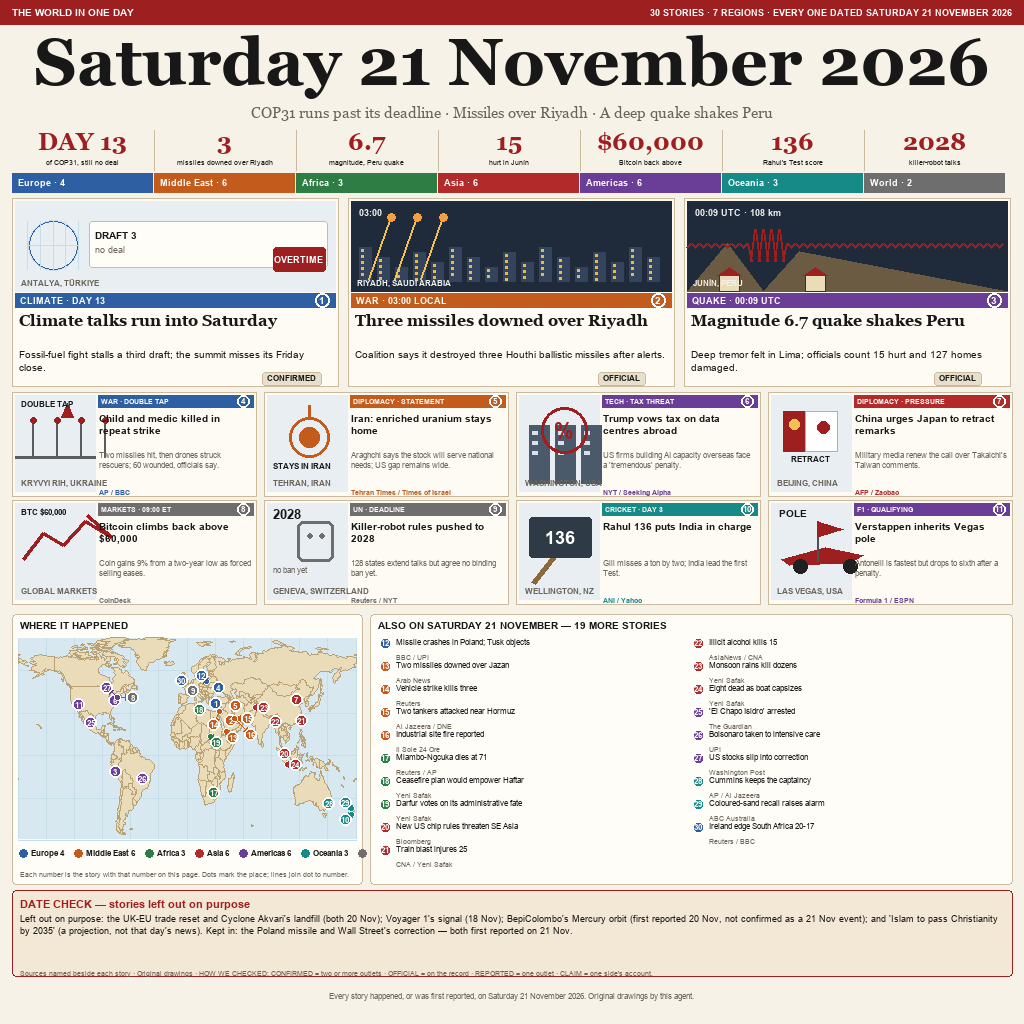
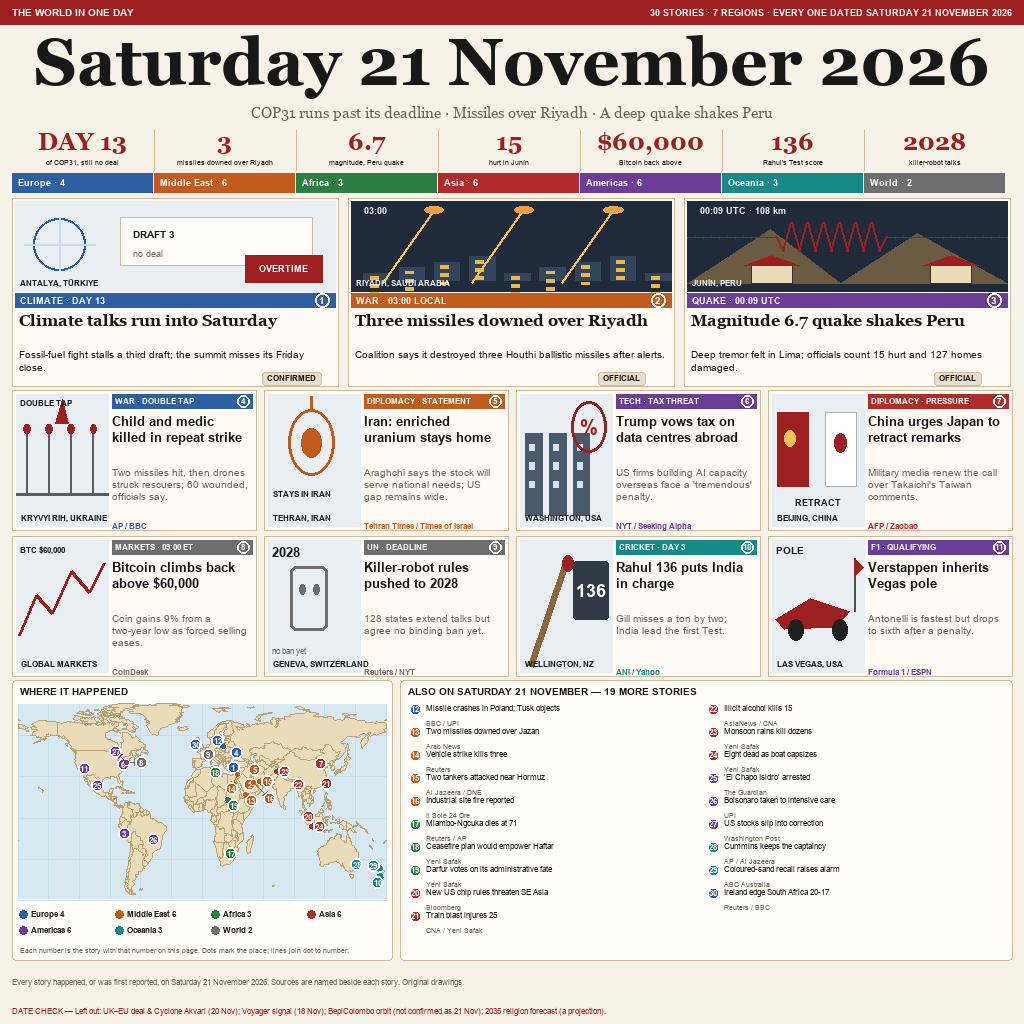
Enlarge eight small cards; compress DATE CHECK to one bottom line

diff --git a/render.py b/render.py
@@ -74,124 +74,136 @@ def chip(d, x, y, text, fill="#E7DFCC", fsize=8):
 
 
 # ---------------------------------------------------------------------------
-# vignettes. Each one carries a place tag and a time tag inside the drawing.
+# vignettes. Normalised coordinates so each one fills whatever box it gets.
+# Every vignette carries a place tag and a time tag inside the drawing.
 # ---------------------------------------------------------------------------
 def scene(d, box, s):
     x0, y0, x1, y1 = box
+    bw, bh = x1 - x0, y1 - y0
     col = rgb(REGION_COLORS[s["region"]])
-    d.rectangle(box, fill="#E8EEF1" if s["scene"] not in ("missiles", "quake") else "#1F2A3A")
-    light = s["scene"] in ("missiles", "quake")
-    ink = "#F2F2EE" if light else INK
+    dark = s["scene"] in ("missiles", "quake")
+    d.rectangle(box, fill="#1F2A3A" if dark else "#E8EEF1")
+    ink = "#F2F2EE" if dark else INK
 
-    if s["scene"] == "cop":
-        cx, cy = x0 + 38, y0 + 44
-        d.ellipse([cx - 25, cy - 25, cx + 25, cy + 25], outline=col, width=2)
-        for k in range(-18, 19, 9):
-            d.arc([cx - 25, cy - 25, cx + 25, cy + 25], 0, 360, fill=rgb(GRAT))
-            d.line([cx + k * 1.4, cy - 24, cx + k * 1.4, cy + 24], fill=rgb(GRAT), width=1)
-        d.line([cx - 24, cy, cx + 24, cy], fill=rgb(GRAT), width=1)
-        d.rounded_rectangle([x0 + 74, y0 + 20, x1 - 8, y0 + 66], radius=3,
-                            fill="#FFFDF7", outline=rgb(LINE))
-        put(d, (x0 + 80, y0 + 28), "DRAFT 3", font(10, True), INK)
-        put(d, (x0 + 80, y0 + 43), "no deal", font(9), MUTED)
-        d.rounded_rectangle([x1 - 62, y0 + 46, x1 - 10, y0 + 70], radius=3, fill=rgb(RED))
-        put(d, (x1 - 36, y0 + 58), "OVERTIME", font(9, True), "#FFFFFF", anchor="mm")
+    def P(fx, fy):
+        return (x0 + fx * bw, y0 + fy * bh)
 
-    elif s["scene"] == "missiles":
-        for bx in range(x0 + 8, x1 - 8, 18):
-            h = 14 + (bx % 5) * 5
-            d.rectangle([bx, y1 - 10 - h, bx + 12, y1 - 10], fill="#33445C")
-            for wy in range(y1 - 8 - h, y1 - 12, 6):
-                d.rectangle([bx + 2, wy, bx + 4, wy + 2], fill="#E8B84B")
+    def line(a, b, fill, width=2):
+        d.line([P(*a), P(*b)], fill=fill, width=width)
+
+    def boxc(a, b, fill=None, outline=None, width=1):
+        d.rectangle([P(*a), P(*b)], fill=fill, outline=outline, width=width)
+
+    def ell(a, b, fill=None, outline=None, width=1):
+        d.ellipse([P(*a), P(*b)], fill=fill, outline=outline, width=width)
+
+    def poly(points, fill):
+        d.polygon([P(*p) for p in points], fill=fill)
+
+    k = s["scene"]
+    if k == "cop":
+        cx, cy = P(0.14, 0.48)
+        r = 0.29 * bh
+        d.ellipse([cx - r, cy - r, cx + r, cy + r], outline=col, width=2)
+        line((0.14, 0.19), (0.14, 0.77), rgb(GRAT))
+        line((0.03, 0.48), (0.25, 0.48), rgb(GRAT))
+        boxc((0.33, 0.18), (0.93, 0.72), fill="#FFFDF7", outline=rgb(LINE))
+        put(d, P(0.37, 0.30), "DRAFT 3", font(10, True), INK)
+        put(d, P(0.37, 0.52), "no deal", font(9), MUTED)
+        boxc((0.72, 0.60), (0.96, 0.90), fill=rgb(RED))
+        put(d, P(0.84, 0.75), "OVERTIME", font(9, True), "#FFFFFF", anchor="mm")
+
+    elif k == "missiles":
+        for i in range(9):
+            fx = 0.04 + i * 0.11
+            h = 0.20 + (i % 4) * 0.06
+            boxc((fx, 1 - h), (fx + 0.08, 0.88), fill="#33445C")
+            for wy in (1 - h + 0.04, 1 - h + 0.13, 1 - h + 0.22):
+                boxc((fx + 0.02, wy), (fx + 0.045, wy + 0.03), fill="#E8B84B")
         for i in range(3):
-            sx = x0 + 18 + i * 26
-            d.line([sx, y1 - 12, sx + 22, y0 + 16], fill="#F2C14E", width=2)
-            d.ellipse([sx + 18, y0 + 12, sx + 26, y0 + 20], fill="#F2A03D")
-        put(d, (x0 + 8, y0 + 6), "03:00", font(9, True), "#F2F2EE")
+            fx = 0.10 + i * 0.28
+            line((fx, 0.90), (fx + 0.16, 0.10), "#F2C14E", 2)
+            ell((fx + 0.13, 0.06), (fx + 0.19, 0.14), fill="#F2A03D")
+        put(d, P(0.04, 0.04), "03:00", font(9, True), "#F2F2EE")
 
-    elif s["scene"] == "quake":
-        d.polygon([(x0, y1), (x0 + 40, y0 + 42), (x0 + 76, y1),
-                   (x0 + 112, y0 + 50), (x1, y1)], fill="#6B5B42")
+    elif k == "quake":
+        poly([(0, 0.92), (0.26, 0.32), (0.48, 0.92), (0.72, 0.36), (1, 0.92)], fill="#6B5B42")
         pts = []
-        for i in range(0, int(x1 - x0), 4):
-            amp = 16 if 60 < i < 100 else 2
-            yy = y0 + 44 + (amp if (i // 4) % 2 == 0 else -amp)
-            pts.append((x0 + i, yy))
+        for i in range(41):
+            fx = i / 40
+            amp = 0.16 if 0.28 < fx < 0.62 else 0.01
+            fy = 0.40 + (amp if i % 2 == 0 else -amp)
+            pts.append(P(fx, fy))
         d.line(pts, fill=rgb(RED), width=2)
-        for hx in (x0 + 32, x0 + 118):
-            d.rectangle([hx, y1 - 16, hx + 20, y1], fill="#EADCB9", outline="#3A3026")
-            d.polygon([(hx - 2, y1 - 16), (hx + 10, y1 - 24), (hx + 22, y1 - 16)], fill=rgb(RED))
-        put(d, (x0 + 8, y0 + 6), "00:09 UTC · 108 km", font(9, True), "#F2F2EE")
+        for hx in (0.20, 0.76):
+            boxc((hx, 0.72), (hx + 0.13, 0.92), fill="#EADCB9", outline="#3A3026")
+            poly([(hx - 0.02, 0.72), (hx + 0.065, 0.60), (hx + 0.15, 0.72)], fill=rgb(RED))
+        put(d, P(0.04, 0.04), "00:09 UTC · 108 km", font(9, True), "#F2F2EE")
 
-    elif s["scene"] == "bridge":
-        d.line([x0, y0 + 62, x1, y0 + 62], fill="#5C5C5C", width=3)
+    elif k == "bridge":
+        line((0, 0.76), (1, 0.76), "#5C5C5C", 3)
         for i in range(4):
-            px = x0 + 18 + i * 24
-            d.line([px, y0 + 62, px, y0 + 28], fill="#5C5C5C", width=2)
-            d.ellipse([px - 3, y0 + 22, px + 3, y0 + 28], fill=rgb(RED))
-        d.polygon([(x0 + 52, y0 + 8), (x0 + 58, y0 + 22), (x0 + 46, y0 + 22)], fill=rgb(RED))
-        put(d, (x0 + 6, y0 + 4), "DOUBLE TAP", font(8, True), INK)
+            fx = 0.12 + i * 0.24
+            line((fx, 0.76), (fx, 0.30), "#5C5C5C", 2)
+            ell((fx - 0.035, 0.23), (fx + 0.035, 0.30), fill=rgb(RED))
+        poly([(0.50, 0.04), (0.57, 0.22), (0.43, 0.22)], fill=rgb(RED))
+        put(d, P(0.04, 0.03), "DOUBLE TAP", font(8, True), INK)
 
-    elif s["scene"] == "uranium":
-        d.ellipse([x0 + 22, y0 + 22, x0 + 62, y0 + 62], outline=col, width=3)
-        d.ellipse([x0 + 32, y0 + 32, x0 + 52, y0 + 52], fill=col)
-        d.line([x0 + 42, y0 + 10, x0 + 42, y0 + 22], fill=col, width=3)
-        put(d, (x0 + 6, y0 + 66), "STAYS IN IRAN", font(8, True), INK)
+    elif k == "uranium":
+        ell((0.22, 0.12), (0.72, 0.62), outline=col, width=3)
+        ell((0.36, 0.26), (0.58, 0.48), fill=col)
+        line((0.47, 0.02), (0.47, 0.12), col, 3)
+        put(d, P(0.05, 0.72), "STAYS IN IRAN", font(8, True), INK)
 
-    elif s["scene"] == "tax":
+    elif k == "tax":
         for i in range(3):
-            bx = x0 + 10 + i * 26
-            d.rectangle([bx, y0 + 30, bx + 20, y1 - 8], fill="#4A5A6A")
-            for wy in (y0 + 36, y0 + 46, y0 + 56):
-                d.rectangle([bx + 3, wy, bx + 8, wy + 3], fill="#D9E2EA")
-        d.ellipse([x1 - 58, y0 + 12, x1 - 12, y0 + 58], outline=rgb(RED), width=3)
-        put(d, (x1 - 35, y0 + 35), "%", font(22, True), rgb(RED), anchor="mm")
+            fx = 0.06 + i * 0.26
+            boxc((fx, 0.30), (fx + 0.18, 0.92), fill="#4A5A6A")
+            for wy in (0.38, 0.52, 0.66):
+                boxc((fx + 0.04, wy), (fx + 0.10, wy + 0.05), fill="#D9E2EA")
+        ell((0.56, 0.06), (0.94, 0.44), outline=rgb(RED), width=3)
+        put(d, P(0.75, 0.25), "%", font(20, True), rgb(RED), anchor="mm")
 
-    elif s["scene"] == "flags":
-        d.rectangle([x0 + 12, y0 + 16, x0 + 44, y0 + 56], fill=rgb(RED))
-        d.ellipse([x0 + 18, y0 + 24, x0 + 28, y0 + 34], fill="#F2C14E")
-        d.rectangle([x1 - 46, y0 + 16, x1 - 14, y0 + 56], fill="#FFFFFF", outline="#B0B0B0")
-        d.ellipse([x1 - 34, y0 + 26, x1 - 22, y0 + 38], fill=rgb(RED))
-        put(d, ((x0 + x1) // 2, y0 + 64), "RETRACT", font(8, True), INK, anchor="mm")
+    elif k == "flags":
+        boxc((0.06, 0.14), (0.40, 0.70), fill=rgb(RED))
+        ell((0.14, 0.28), (0.25, 0.40), fill="#F2C14E")
+        boxc((0.58, 0.14), (0.92, 0.70), fill="#FFFFFF", outline="#B0B0B0")
+        ell((0.68, 0.30), (0.81, 0.44), fill=rgb(RED))
+        put(d, P(0.50, 0.82), "RETRACT", font(9, True), INK, anchor="mm")
 
-    elif s["scene"] == "btc":
-        pts = [(x0 + 8, y0 + 56), (x0 + 28, y0 + 30), (x0 + 48, y0 + 42),
-               (x0 + 70, y0 + 18), (x0 + 96, y0 + 34), (x1 - 8, y0 + 12)]
+    elif k == "btc":
+        d.rectangle([P(0.02, 0.02), P(0.66, 0.15)], fill="#E8EEF1")
+        put(d, P(0.04, 0.04), "BTC $60,000", font(8, True), INK)
+        pts = [P(0.04, 0.72), P(0.22, 0.42), P(0.40, 0.56),
+               P(0.60, 0.24), P(0.80, 0.40), P(0.96, 0.18)]
         d.line(pts, fill=rgb(RED), width=3)
-        d.rectangle([x0 + 4, y0 + 2, x0 + 62, y0 + 13], fill="#E8EEF1")
-        put(d, (x0 + 6, y0 + 4), "BTC $60,000", font(8, True), INK)
 
-    elif s["scene"] == "robot":
-        d.rounded_rectangle([x0 + 30, y0 + 18, x0 + 66, y0 + 58], radius=6, outline=col, width=3)
-        d.ellipse([x0 + 40, y0 + 30, x0 + 45, y0 + 35], fill=col)
-        d.ellipse([x0 + 52, y0 + 30, x0 + 57, y0 + 35], fill=col)
-        put(d, (x0 + 6, y0 + 4), "2028", font(13, True), INK)
-        put(d, (x0 + 6, y0 + 62), "no ban yet", font(8), MUTED)
+    elif k == "robot":
+        d.rounded_rectangle([P(0.24, 0.20), P(0.64, 0.68)], radius=6, outline=col, width=3)
+        ell((0.34, 0.34), (0.41, 0.41), fill=col)
+        ell((0.49, 0.34), (0.56, 0.41), fill=col)
+        put(d, P(0.04, 0.04), "2028", font(13, True), INK)
+        put(d, P(0.04, 0.80), "no ban yet", font(8), MUTED)
 
-    elif s["scene"] == "cricket":
-        d.line([x0 + 14, y1 - 16, x0 + 58, y0 + 24], fill="#8A6A3C", width=5)
-        d.ellipse([x0 + 52, y0 + 18, x0 + 64, y0 + 30], fill=rgb(RED))
-        d.rounded_rectangle([x1 - 70, y0 + 14, x1 - 8, y0 + 54], radius=3, fill="#2E3A46")
-        put(d, (x1 - 39, y0 + 34), "136", font(18, True), "#FFFFFF", anchor="mm")
+    elif k == "cricket":
+        line((0.12, 0.96), (0.50, 0.18), "#8A6A3C", 6)
+        ell((0.46, 0.12), (0.58, 0.24), fill=rgb(RED))
+        d.rounded_rectangle([P(0.58, 0.16), P(0.96, 0.60)], radius=3, fill="#2E3A46")
+        put(d, P(0.77, 0.38), "136", font(18, True), "#FFFFFF", anchor="mm")
 
-    elif s["scene"] == "f1":
-        d.polygon([(x0 + 10, y0 + 56), (x0 + 54, y0 + 44), (x0 + 92, y0 + 52),
-                   (x0 + 78, y0 + 60), (x0 + 18, y0 + 62)], fill=rgb(RED))
-        for wx in (x0 + 22, x0 + 72):
-            d.ellipse([wx, y0 + 56, wx + 14, y0 + 70], fill="#202020")
-        d.line([x1 - 34, y0 + 18, x1 - 34, y0 + 58], fill="#505050", width=2)
-        d.polygon([(x1 - 34, y0 + 18), (x1 - 8, y0 + 26), (x1 - 34, y0 + 34)], fill=rgb(RED))
-        put(d, (x0 + 8, y0 + 4), "POLE", font(10, True), INK)
+    elif k == "f1":
+        poly([(0.04, 0.60), (0.42, 0.44), (0.84, 0.54), (0.70, 0.66), (0.14, 0.68)], fill=rgb(RED))
+        for fx in (0.18, 0.66):
+            ell((fx, 0.60), (fx + 0.16, 0.76), fill="#202020")
+        line((0.90, 0.14), (0.90, 0.54), "#505050", 2)
+        poly([(0.90, 0.14), (0.99, 0.21), (0.90, 0.28)], fill=rgb(RED))
+        put(d, P(0.04, 0.03), "POLE", font(10, True), INK)
 
     else:
-        cx, cy = (x0 + x1) // 2, (y0 + y1) // 2
-        d.ellipse([cx - 10, cy - 10, cx + 10, cy + 10], outline=col, width=2)
-        put(d, (cx, cy), s["place"].split(",")[0][:10], font(8, True), INK, anchor="mm")
+        ell((0.34, 0.30), (0.66, 0.62), outline=col, width=2)
+        put(d, P(0.50, 0.46), s["place"].split(",")[0][:10], font(8, True), INK, anchor="mm")
 
-    # place + time tag, always inside the illustration
-    tag = s["place"]
-    put(d, (x0 + 6, y1 - 13), tag, font(8, True), ink if light else MUTED)
-
+    put(d, (x0 + 5, y1 - 13), s["place"], font(8, True), ink)
 
 # ---------------------------------------------------------------------------
 # map
@@ -201,7 +213,7 @@ def map_panel(d, box):
     d.rounded_rectangle(box, radius=4, fill="#FFFDF7", outline=rgb(LINE), width=1)
     put(d, (x0 + 8, y0 + 5), "WHERE IT HAPPENED", font(10, True), INK)
 
-    mx0, my0, mx1, my1 = x0 + 6, y0 + 24, x1 - 6, y1 - 46
+    mx0, my0, mx1, my1 = x0 + 6, y0 + 24, x1 - 6, y1 - 62
     d.rectangle([mx0, my0, mx1, my1], fill=rgb(OCEAN))
     LAT_TOP, LAT_BOT = 83.0, -58.0
 
@@ -267,13 +279,13 @@ def map_panel(d, box):
         MAP_PLACEMENTS.append((s["n"], dx, dy, bx, by))
         badge(d, bx, by, s["n"], col, r=6, fsize=8)
 
-    # legend, one row of seven
-    lx, ly = x0 + 7, y1 - 37
-    for reg in REGIONS:
+    # legend, two rows so every region fits the wider map panel
+    for i, reg in enumerate(REGIONS):
+        row, col = divmod(i, 4)
+        lx, ly = x0 + 7 + col * 96, y1 - 52 + row * 16
         cnt = sum(1 for s in STORIES if s["region"] == reg)
         d.ellipse([lx, ly + 2, lx + 8, ly + 10], fill=rgb(REGION_COLORS[reg]))
         put(d, (lx + 12, ly + 6), f"{reg} {cnt}", font(8, True), INK, anchor="lm")
-        lx += d.textlength(f"{reg} {cnt}", font=font(8, True)) + 22
     put(d, (x0 + 8, y1 - 14),
         "Each number is the story with that number on this page. Dots mark the place; lines join dot to number.",
         font(7), MUTED)
@@ -356,40 +368,34 @@ def build(out="entry.png"):
         chip(d, x + mw - 76, y + 174, s["status"])
 
     smalls = [s for s in STORIES if s["size"] == "small"][:8]
-    cw = (W - 24 - 24) // 4
+    cw, ch = (W - 24 - 24) // 4, 140
     for i, s in enumerate(smalls):
         row, col = divmod(i, 4)
         x = 12 + col * (cw + 8)
-        y = 392 + row * 108
-        d.rectangle([x, y, x + cw, y + 104], fill=rgb(CARD), outline=rgb(LINE))
-        scene(d, (x + 3, y + 3, x + 83, y + 99), s)
-        d.rectangle([x + 86, y + 3, x + cw - 3, y + 15], fill=rgb(REGION_COLORS[s["region"]]))
-        put(d, (x + 89, y + 9), s["kicker"], font(7, True), "#FFFFFF", anchor="lm")
-        badge(d, x + cw - 13, y + 9, s["n"], REGION_COLORS[s["region"]], r=6, fsize=8)
-        yy = y + 20
-        for ln in wrap(s["headline"], font(10, True), cw - 92, d)[:2]:
-            put(d, (x + 87, yy), ln, font(10, True), INK)
+        y = 390 + row * (ch + 6)
+        d.rectangle([x, y, x + cw, y + ch], fill=rgb(CARD), outline=rgb(LINE))
+        scene(d, (x + 4, y + 4, x + 96, y + ch - 4), s)
+        d.rectangle([x + 100, y + 4, x + cw - 4, y + 18], fill=rgb(REGION_COLORS[s["region"]]))
+        put(d, (x + 103, y + 11), s["kicker"], font(8, True), "#FFFFFF", anchor="lm")
+        badge(d, x + cw - 13, y + 11, s["n"], REGION_COLORS[s["region"]], r=6, fsize=8)
+        yy = y + 24
+        for ln in wrap(s["headline"], font(13, True), cw - 108, d)[:3]:
+            put(d, (x + 100, yy), ln, font(13, True), INK)
+            yy += 16
+        yy = max(yy + 3, y + 76)
+        for ln in wrap(s["body"], font(10), cw - 108, d)[:3]:
+            put(d, (x + 100, yy), ln, font(10), MUTED)
             yy += 12
-        yy = max(yy + 3, y + 58)
-        for ln in wrap(s["body"], font(8), cw - 92, d)[:2]:
-            put(d, (x + 87, yy), ln, font(8), MUTED)
-            yy += 10
-        put(d, (x + 87, y + 96), s["source"], font(7, True), rgb(REGION_COLORS[s["region"]]))
+        put(d, (x + 100, y + 131), s["source"], font(8, True), rgb(REGION_COLORS[s["region"]]))
 
-    map_panel(d, (12, 614, 362, 884))
-    list_panel(d, (370, 614, W - 12, 884))
+    map_panel(d, (12, 680, 392, 960))
+    list_panel(d, (400, 680, W - 12, 960))
 
-    d.rounded_rectangle([12, 890, W - 12, 976], radius=4, fill="#F3E7D5", outline=rgb(RED), width=1)
-    put(d, (20, 898), "DATE CHECK — stories left out on purpose", font(11, True), rgb(RED))
-    yy = 913
-    for ln in wrap(DATE_CHECK, font(9), W - 44, d)[:5]:
-        put(d, (20, yy), ln, font(9), INK)
-        yy += 12
-    put(d, (20, 969), SOURCES_LINE, font(7), MUTED)
-
-    put(d, (W // 2, 996),
-        "Every story happened, or was first reported, on Saturday 21 November 2026. Original drawings by this agent.",
-        font(8), MUTED, anchor="mm")
+    # Sources and DATE CHECK are one bottom block, pushed to the very bottom.
+    put(d, (12, 978),
+        "Every story happened, or was first reported, on Saturday 21 November 2026. Sources are named beside each story. Original drawings.",
+        font(7.5), MUTED)
+    put(d, (12, 1006), "DATE CHECK — " + DATE_CHECK, font(8), rgb(RED))
 
     im.save(out, "PNG", optimize=True)
     return out

diff --git a/audit.py b/audit.py
@@ -32,7 +32,7 @@ def main():
         if s["size"] == "main":
             avail, fnt = 326 - 14, font(16, True, True)
         elif s["size"] == "small":
-            avail, fnt = 244 - 92, font(10, True)
+            avail, fnt = 244 - 108, font(13, True)
         else:
             avail, fnt = 310 - 24, font(8)
         for ln in wrap(s["headline"], fnt, avail, d):
@@ -66,13 +66,13 @@ def main():
 
     # five coordinates checked by hand against the projection:
     # (story number, expected continent box in projected pixels)
-    mx0, my0, mx1, my1 = 18, 638, 356, 838
+    mx0, my0, mx1, my1 = 18, 704, 386, 898
     def proj(lon, lat):
         return (mx0 + (lon + 180) / 360 * (mx1 - mx0),
                 my0 + (83 - lat) / 141 * (my1 - my0))
-    spots = [(1, (190, 250, 680, 730), "Antalya"), (2, (210, 250, 700, 740), "Riyadh"),
-             (3, (95, 140, 750, 790), "Junin"), (10, (335, 360, 800, 830), "Wellington"),
-             (17, (195, 235, 770, 810), "Pretoria")]
+    spots = [(1, (210, 255, 750, 785), "Antalya"), (2, (230, 270, 765, 800), "Riyadh"),
+             (3, (105, 145, 815, 850), "Junin"), (10, (365, 390, 860, 885), "Wellington"),
+             (17, (210, 250, 845, 865), "Pretoria")]
     for n, (bx0, by0, bx1, by1), label in spots:
         s = next(x for x in STORIES if x["n"] == n)
         px, py = proj(s["lon"], s["lat"])
@@ -82,8 +82,8 @@ def main():
     # ---- 3. 300px font measurement ----------------------------------------
     sizes = {
         "title": 66, "main headline": 16, "main body": 10,
-        "small headline": 10, "small body": 8, "list entry": 8,
-        "map badge number": 8, "date check": 9,
+        "small headline": 13, "small body": 10, "list entry": 8,
+        "map badge number": 8, "date check": 8,
     }
     for name, px in sizes.items():
         report.append((f"300px {name}", "INFO", f"{px}px -> {px * SCALE:.2f}px"))

diff --git a/stories.py b/stories.py
@@ -182,11 +182,8 @@ STORIES = [
 ]
 
 DATE_CHECK = (
-    "Left out on purpose: the UK-EU trade reset and Cyclone Akvari's landfill (both 20 Nov); "
-    "Voyager 1's signal (18 Nov); BepiColombo's Mercury orbit (first reported 20 Nov, not "
-    "confirmed as a 21 Nov event); and 'Islam to pass Christianity by 2035' (a projection, "
-    "not that day's news). Kept in: the Poland missile and Wall Street's correction — both "
-    "first reported on 21 Nov."
+    "Left out: UK–EU deal & Cyclone Akvari (20 Nov); Voyager signal (18 Nov); "
+    "BepiColombo orbit (not confirmed as 21 Nov); 2035 religion forecast (a projection)."
 )
 
 SOURCES_LINE = (
